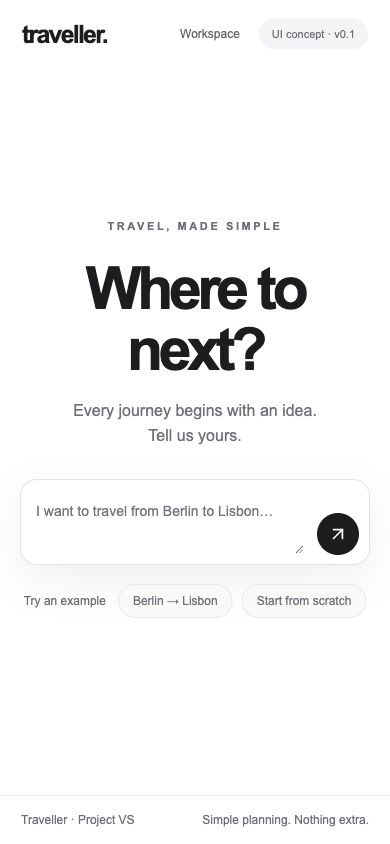
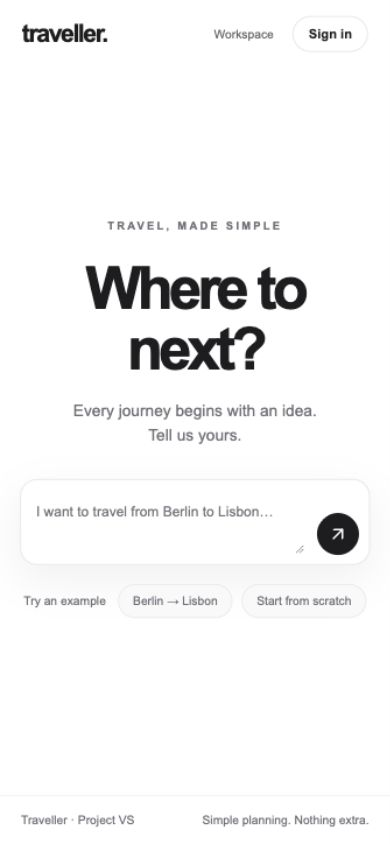
Apply Traveller workspace review feedback

diff --git a/frontend/src/features/v1/v1.css b/frontend/src/features/v1/v1.css
@@ -265,22 +265,47 @@
   overflow-wrap: anywhere;
 }
 
-.v1-side-footer {
-  margin-top: auto;
-  padding: 10px 13px;
-  color: var(--v1-muted);
-  font-size: 11px;
-  line-height: 1.5;
+.v1-sign-in {
+  min-height: 36px;
+  padding: 8px 15px;
+  border: 1px solid var(--v1-line);
+  border-radius: 99px;
+  color: var(--v1-ink);
+  background: #fff;
+  font-size: 13px;
+  font-weight: 600;
+  white-space: nowrap;
 }
 
-.v1-side-footer span {
-  display: inline-block;
-  width: 6px;
-  height: 6px;
-  margin-right: 6px;
-  border-radius: 50%;
-  background: #8ab2a1;
+.v1-sign-in:hover,
+.v1-account:hover { background: var(--v1-tint); }
+
+.v1-account {
+  display: flex;
+  align-items: center;
+  gap: 10px;
+  margin-top: auto;
+  padding: 9px 12px;
+  border: 0;
+  border-radius: 12px;
+  color: var(--v1-ink);
+  background: transparent;
+  text-align: left;
 }
+
+.v1-account-avatar {
+  display: grid;
+  place-items: center;
+  flex: 0 0 32px;
+  height: 32px;
+  border: 1px solid var(--v1-line);
+  border-radius: 50%;
+  background: #fff;
+  color: var(--v1-muted);
+}
+
+.v1-account-label { display: grid; gap: 2px; font-size: 13px; }
+.v1-account-label small { color: var(--v1-muted); font-size: 11px; }
 
 .v1-conversation {
   display: flex;
@@ -289,35 +314,6 @@
   min-width: 0;
 }
 
-.v1-work-header {
-  padding: 29px 45px 14px;
-  display: flex;
-  align-items: center;
-  gap: 14px;
-}
-
-.v1-work-header h1,
-.v1-context h2 {
-  margin-right: auto;
-  font-size: 15px;
-  letter-spacing: -.02em;
-  font-weight: 650;
-}
-
-.v1-work-header span { font-size: 12px; color: var(--v1-muted); }
-
-.v1-work-header button {
-  background: none;
-  border: 0;
-  color: var(--v1-muted);
-  font-size: 11px;
-  padding: 8px 0;
-  white-space: nowrap;
-}
-
-.v1-work-header button:hover { color: var(--v1-ink); }
-
-.v1-mobile-brand,
 .v1-mobile-context { display: none; }
 
 .v1-stream {
@@ -454,7 +450,7 @@
   gap: 10px;
 }
 
-.v1-context h2 { font-size: 14px; }
+.v1-context h2 { font-size: 14px; letter-spacing: -.02em; font-weight: 650; }
 
 .v1-context-edit {
   border: 0;
@@ -502,6 +498,7 @@
 .v1-dialog::backdrop { background: #17171b52; }
 .v1-dialog header { margin-bottom: 25px; }
 .v1-dialog h2 { font-size: 20px; letter-spacing: -.04em; font-weight: 650; }
+.v1-sign-in-dialog p { margin-top: 12px; color: var(--v1-muted); }
 
 .v1-dialog-close {
   display: grid;
@@ -549,7 +546,7 @@
   color: #444;
 }
 
-.v1-dialog-actions button[type="submit"] { background: var(--v1-ink); color: #fff; }
+.v1-dialog-actions button:is([type="submit"], .v1-dialog-primary) { background: var(--v1-ink); color: #fff; }
 
 @media (max-width: 1080px) {
   .v1-workspace { grid-template-columns: 190px minmax(0, 1fr); }
@@ -560,7 +557,7 @@
     max-height: 40dvh;
     overflow: auto;
     width: min(calc(100% - 40px), 660px);
-    margin: 0 auto;
+    margin: 24px auto 0;
     padding-inline: 15px;
     border: 1px solid #eeeef1;
     border-radius: 13px;
@@ -587,14 +584,29 @@
   .v1-hero-composer textarea { min-height: 66px; font-size: 14px; }
   .v1-home-footer { padding: 17px 21px; }
   .v1-home-footer span:last-child { display: none; }
-  .v1-workspace { grid-template-columns: minmax(0, 1fr); }
-  .v1-sidebar { display: none; }
-  .v1-work-header { padding: 14px 18px 10px; gap: 10px; min-height: 61px; }
-  .v1-mobile-brand { display: inline; font-size: 19px; letter-spacing: -1.4px; }
-  .v1-work-header h1 { font-size: 13px; }
-  .v1-work-header span { display: none; }
-  .v1-work-header button { padding: 10px 4px; }
-  .v1-mobile-context { width: calc(100% - 36px); }
+  .v1-workspace {
+    grid-template-columns: minmax(0, 1fr);
+    grid-template-rows: auto minmax(0, 1fr);
+  }
+  .v1-sidebar {
+    flex-direction: row;
+    align-items: center;
+    gap: 10px;
+    padding: 8px 18px;
+    overflow: visible;
+    border-right: 0;
+    border-bottom: 1px solid #eeeef0;
+  }
+  .v1-sidebar .v1-wordmark {
+    margin: 0 auto 0 0;
+    align-self: center;
+    font-size: 22px;
+  }
+  .v1-side-new { width: auto; min-height: 44px; gap: 5px; padding: 8px 10px; white-space: nowrap; }
+  .v1-account { margin-top: 0; padding: 6px; }
+  .v1-account-label,
+  .v1-side-current { display: none; }
+  .v1-mobile-context { width: calc(100% - 36px); margin-top: 12px; }
   .v1-stream { padding: 20px 18px 25px; }
   .v1-welcome { margin: 50px 0 44px; }
   .v1-welcome h2 { font-size: 36px; }

diff --git a/frontend/tests/v1.test.tsx b/frontend/tests/v1.test.tsx
@@ -35,6 +35,18 @@ async function send(user: ReturnType<typeof userEvent.setup>, text: string) {
 }
 
 describe('Traveller UI V1', () => {
+  it('opens the sign-in placeholder from the landing and the guest account', async () => {
+    const { user } = open();
+    await user.click(screen.getByRole('button', { name: 'Sign in' }));
+    expect(screen.getByRole('dialog', { name: 'Sign in' }).textContent).toContain('Traveller accounts are coming soon.');
+
+    await user.click(screen.getByRole('button', { name: 'Done' }));
+    expect(screen.queryByRole('dialog', { name: 'Sign in' })).toBeNull();
+    await user.click(screen.getByRole('link', { name: 'Workspace' }));
+    await user.click(screen.getByRole('button', { name: 'Guest account, sign in' }));
+    expect(screen.getByRole('dialog', { name: 'Sign in' }).textContent).toContain('Traveller accounts are coming soon.');
+  });
+
   it('ignores blank input and hands off one trimmed request, even in Strict Mode', async () => {
     const { router, user } = open();
     const input = screen.getByRole('textbox', { name: 'Describe your trip' });
@@ -54,7 +66,7 @@ describe('Traveller UI V1', () => {
     expect(await conversation.findByRole('article', { name: 'Berlin → Lisbon' })).toBeTruthy();
     expect(conversation.getByText('Demo only')).toBeTruthy();
 
-    await user.click(within(screen.getByRole('main')).getByRole('button', { name: 'New journey' }));
+    await user.click(screen.getByRole('button', { name: 'New journey' }));
     expect(screen.getByRole('heading', { name: 'Let’s plan your trip.' })).toBeTruthy();
     expect(screen.queryByRole('article')).toBeNull();
     expect(within(screen.getByRole('complementary', { name: 'Travel context' })).getAllByText('Not set')).toHaveLength(3);
@@ -105,7 +117,7 @@ describe('Traveller UI V1', () => {
     const { user } = open('/chat');
     await send(user, 'Berlin to Lisbon');
     expect(screen.getByText('Preparing a demo reply…')).toBeTruthy();
-    await user.click(within(screen.getByRole('main')).getByRole('button', { name: 'New journey' }));
+    await user.click(screen.getByRole('button', { name: 'New journey' }));
     await send(user, 'Paris');
     expect(await screen.findByText(/This demo uses scripted replies/)).toBeTruthy();
     expect(screen.queryByText(confirmation)).toBeNull();

diff --git a/frontend/src/features/v1/WorkspacePage.tsx b/frontend/src/features/v1/WorkspacePage.tsx
@@ -4,6 +4,7 @@ import { Link, useLocation, useNavigate } from 'react-router';
 import { journey } from '../../mocks/journey';
 import { localTime } from '../chat/format';
 import { MessageComposer } from './MessageComposer';
+import { SignIn } from './SignIn';
 import { ContextContent, ContextEditor } from './TravelContext';
 import { applyTrip, displayDate, exampleLeg, newWorkspace, queueMessage, reply } from './demo';
 import type { TripContext, Workspace } from './demo';
@@ -139,17 +140,10 @@ export function WorkspacePage() {
           <p>Your journey</p>
           <a href="#main-content" aria-current="true">{journeyTitle}</a>
         </div>
-        <p className="v1-side-footer">
-          <span aria-hidden="true" /> Demo preview<br />Simulated conversation &amp; flights
-        </p>
+        <SignIn guest />
       </aside>
       <main id="main-content" ref={main} tabIndex={-1} className="v1-conversation">
-        <header className="v1-work-header">
-          <Link to="/" className="v1-wordmark v1-mobile-brand" aria-label="Traveller home">traveller.</Link>
-          <h1>Planning workspace</h1>
-          <span>UI concept</span>
-          <button type="button" onClick={reset} aria-label="New journey"><Plus size={10} aria-hidden="true" /> New</button>
-        </header>
+        <h1 className="v1-visually-hidden">Planning workspace</h1>
         <details className="v1-mobile-context" ref={mobileContext}>
           <summary>Travel context</summary>
           <button className="v1-context-edit" type="button" disabled={!!pending} onClick={edit}>Edit</button>

diff --git a/frontend/src/features/v1/SignIn.tsx b/frontend/src/features/v1/SignIn.tsx
@@ -1,0 +1,35 @@
+import { UserRound } from 'lucide-react';
+import { useId, useRef } from 'react';
+
+export function SignIn({ guest = false }: { guest?: boolean }) {
+  const dialog = useRef<HTMLDialogElement>(null);
+  const titleId = useId();
+
+  return (
+    <>
+      <button
+        className={guest ? 'v1-account' : 'v1-sign-in'}
+        type="button"
+        aria-haspopup="dialog"
+        aria-label={guest ? 'Guest account, sign in' : undefined}
+        onClick={() => dialog.current?.showModal()}
+      >
+        {guest ? (
+          <>
+            <span className="v1-account-avatar"><UserRound size={16} aria-hidden="true" /></span>
+            <span className="v1-account-label"><strong>Guest</strong><small>Sign in</small></span>
+          </>
+        ) : 'Sign in'}
+      </button>
+      <dialog ref={dialog} className="v1-dialog v1-sign-in-dialog" aria-labelledby={titleId}>
+        <h2 id={titleId}>Sign in</h2>
+        <p>Traveller accounts are coming soon.</p>
+        <div className="v1-dialog-actions">
+          <button className="v1-dialog-primary" type="button" onClick={() => dialog.current?.close()}>
+            Done
+          </button>
+        </div>
+      </dialog>
+    </>
+  );
+}

diff --git a/frontend/src/features/v1/LandingPage.tsx b/frontend/src/features/v1/LandingPage.tsx
@@ -1,5 +1,6 @@
 import { Link, useNavigate } from 'react-router';
 import { MessageComposer } from './MessageComposer';
+import { SignIn } from './SignIn';
 import { exampleRequest } from './demo';
 import './v1.css';
 
@@ -17,7 +18,7 @@ export function LandingPage() {
         <Link to="/" className="v1-wordmark" aria-label="Traveller home">traveller.</Link>
         <div className="v1-nav-actions">
           <Link to="/chat">Workspace</Link>
-          <span className="v1-pill">UI concept · v0.1</span>
+          <SignIn />
         </div>
       </nav>
       <main id="main-content" tabIndex={-1} className="v1-home-content">

diff --git a/design-qa.md b/design-qa.md
@@ -13,6 +13,6 @@ The desktop landing preserves the headline, centered form and whitespace. The mo
 
 The first desktop captures used mismatched image heights. Explicit 1365 × 850 clips and matching CSS viewport measurements corrected the comparison. While checking the workspace, the composer displayed redundant focus outlines. The final styling uses the form outline for text focus and a separate keyboard outline for the submit button. The final captures show the unfocused reference states.
 
-The mobile workspace keeps New journey in the header and uses a native Travel Context disclosure. At 390 and 320 CSS pixels, the workspace fit without horizontal overflow. Confirmed the example flow, Apply and Cancel, Escape and reset in the browser. Browser console checks found no errors on the V1 flows or during the built demo status and classic chat smoke checks. The opt-in MSW build retains its existing demo banner. The [previous desktop UI](docs/frontend-v1/before-desktop.jpg) is the same planner now reachable in classic mode.
+Review feedback replaced the landing badge with Sign in and the sidebar demo label with a guest account row. Both open the same account placeholder. The desktop conversation header was removed. On mobile, the sidebar navigation becomes a single row with the wordmark, New journey and the guest avatar. Travel Context remains a native disclosure. At 390 and 320 CSS pixels, the workspace fit without horizontal overflow. Confirmed the example flow, Apply and Cancel, Escape and reset in the browser. Browser console checks found no errors on the V1 flows or during the built demo status and classic chat smoke checks. The opt-in MSW build retains its existing demo banner. The [previous desktop UI](docs/frontend-v1/before-desktop.jpg) is the same planner now reachable in classic mode.
 
 final result: passed
